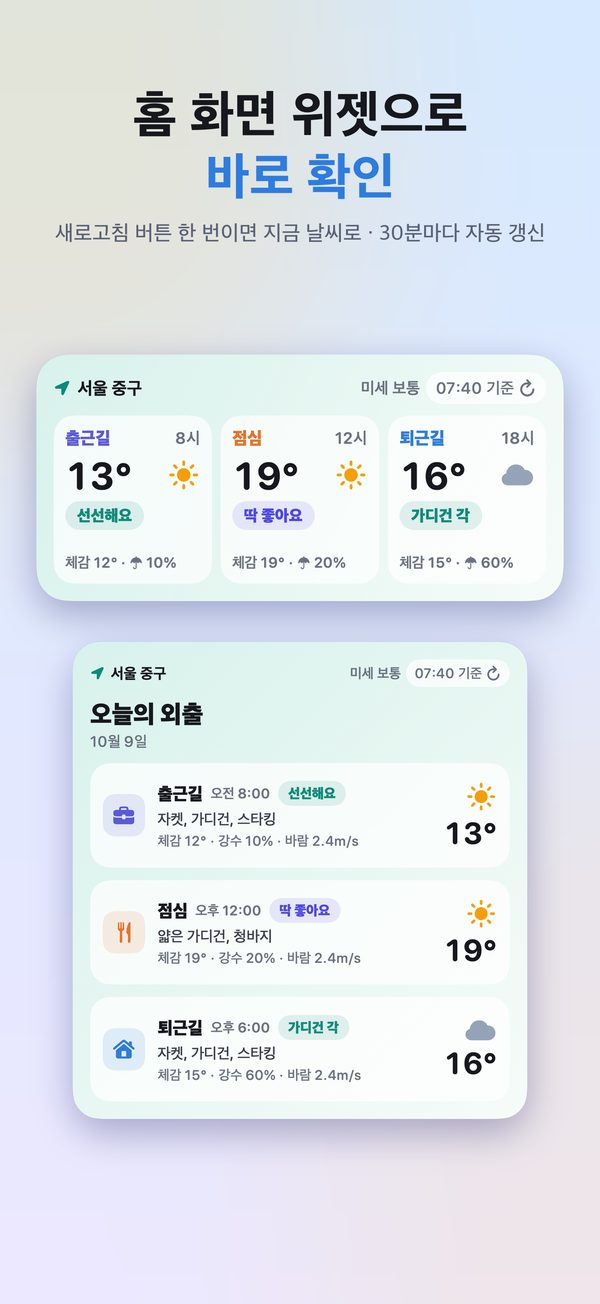
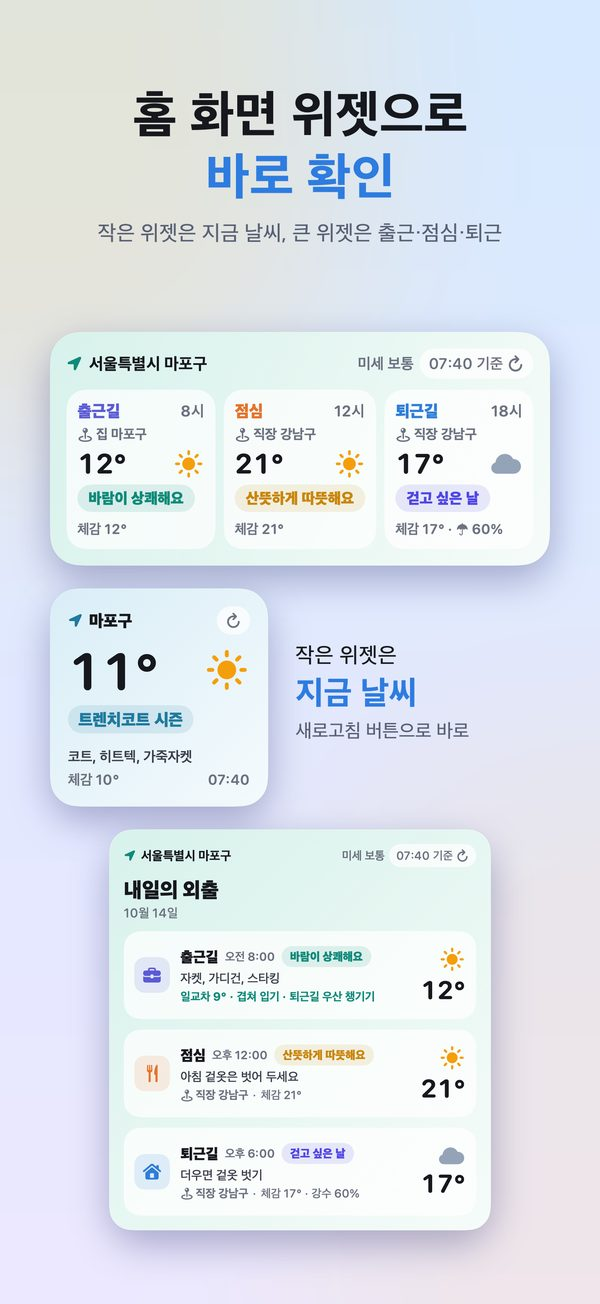
weatherfit: small widget current weather, real-time KMA FAQ, screenshot 6, review status

diff --git a/weatherfit/index.html b/weatherfit/index.html
@@ -47,7 +47,7 @@ permalink: /weatherfit/
         "출퇴근 날씨",
         "WeatherFit"
       ],
-      "description": "출근·점심·퇴근 세 시간대의 기상청 예보를 내가 느끼는 체감과 하루 옷차림으로 알려주는 아이폰 날씨 앱. 내 체감 학습, 집·직장 위치, 주말·공휴일 쉬는 날 문구, 홈 화면 위젯.",
+      "description": "출근·점심·퇴근 세 시간대의 기상청 예보를 내가 느끼는 체감과 하루 옷차림으로 알려주는 아이폰 날씨 앱. 기상청 실시간 현재 날씨, 내 체감 학습, 집·직장 위치, 주말·공휴일 쉬는 날 문구, 출근 전날 저녁 9시 알림, 홈 화면 위젯.",
       "url": "https://cumulus.team/weatherfit/",
       "sameAs": [
         "https://apps.apple.com/kr/app/id6819701703"
@@ -68,7 +68,8 @@ permalink: /weatherfit/
         "https://cumulus.team/weatherfit/img/screen-02.jpg",
         "https://cumulus.team/weatherfit/img/screen-03.jpg",
         "https://cumulus.team/weatherfit/img/screen-04.jpg",
-        "https://cumulus.team/weatherfit/img/screen-05.jpg"
+        "https://cumulus.team/weatherfit/img/screen-05.jpg",
+        "https://cumulus.team/weatherfit/img/screen-06.jpg"
       ],
       "featureList": [
         "세 번의 외출 날씨: 출근(8시)·점심(12시)·퇴근(18시)의 기온·체감·강수확률·바람·자외선. 퇴근 후엔 내일 날씨로 자동 전환.",
@@ -77,7 +78,8 @@ permalink: /weatherfit/
         "내 출퇴근 시간: 출근·점심·퇴근 시각을 30분 단위로 바꾸면 카드와 위젯이 그대로 따라와요.",
         "집·직장 위치: 출근은 집, 점심·퇴근은 직장 날씨. 주소 검색이나 현재 위치로 설정해요.",
         "주말·공휴일 쉬는 날 모드: “느긋한 아침 · 한가한 점심 · 저녁 나들이”와 쉬는 날 문구로 바뀌어요.",
-        "홈 화면 위젯: 소·중·대 위젯이 30분마다 스스로 갱신, ↻ 버튼으로 바로 새로고침.",
+        "홈 화면 위젯: 작은 위젯은 지금 날씨, 중간·큰 위젯은 출근·점심·퇴근. 30분마다 스스로 갱신하고 새로고침 버튼으로 바로.",
+        "실시간 현재 날씨: 기상청 정시 관측을 바로 반영하고, 자외선이 강하면 햇볕 안내까지. 필요 없는 정보는 숨겨서 깔끔하게.",
         "저녁 9시 출근 날씨 알림: 출근하는 날 전날 밤 9시, 내일 출근길 날씨와 하루 옷차림을 알림으로 요약해 드려요.",
         "체감 10단계 문구: “트렌치코트 시즌”, “걷고 싶은 날”, “빗소리 좋은 날”, “날씨까지 불금”처럼 날씨·요일에 어울리는 문구."
       ],
@@ -102,7 +104,7 @@ permalink: /weatherfit/
       "about": {
         "@id": "https://cumulus.team/weatherfit/#app"
       },
-      "dateModified": "2026-10-10"
+      "dateModified": "2026-10-11"
     },
     {
       "@type": "FAQPage",
@@ -169,7 +171,7 @@ permalink: /weatherfit/
           "name": "홈 화면 위젯이 있나요?",
           "acceptedAnswer": {
             "@type": "Answer",
-            "text": "소·중·대 세 가지 크기의 홈 화면 위젯이 있습니다. 위젯은 약 30분마다 스스로 기상청 예보를 받아 갱신되고, 새로고침 버튼(↻)을 누르면 바로 최신 날씨로 바뀝니다. 앱과 같은 출퇴근 시간, 집·직장 위치, 쉬는 날 문구, 하루 옷차림을 따릅니다. 위젯은 iOS 17 이상에서 쓸 수 있습니다."
+            "text": "소·중·대 세 가지 크기의 홈 화면 위젯이 있습니다. 작은 위젯은 지금 날씨와 체감·옷차림을, 중간·큰 위젯은 출근·점심·퇴근 날씨를 보여줍니다. 위젯은 약 30분마다 스스로 기상청 예보를 받아 갱신되고, 새로고침 버튼(↻)을 누르면 바로 최신 날씨로 바뀝니다. 앱과 같은 출퇴근 시간, 집·직장 위치, 쉬는 날 문구, 하루 옷차림을 따릅니다. 위젯은 iOS 17 이상에서 쓸 수 있습니다."
           }
         },
         {
@@ -178,6 +180,14 @@ permalink: /weatherfit/
           "acceptedAnswer": {
             "@type": "Answer",
             "text": "네. '저녁 9시 출근 날씨 알림'을 켜면 출근하는 날 전날 밤 9시에 내일 출근길 기온과 체감, 하루 옷차림, 점심·퇴근길 기온, 일교차·우산 안내를 한 번에 알려줍니다. 다음날이 주말·공휴일이면 보내지 않으며, 기본값은 꺼짐입니다. 알림은 기기 안에서 예약되는 로컬 알림입니다."
+          }
+        },
+        {
+          "@type": "Question",
+          "name": "지금 기온이 기상청 발표와 같은가요?",
+          "acceptedAnswer": {
+            "@type": "Answer",
+            "text": "상단 현재 날씨는 기상청 초단기실황(매시 정시 관측)을 쓰며, 정시 관측이 나오는 대로(보통 정시 5분쯤) 반영합니다. 아직 이번 시각 자료가 없으면 직전 관측을 보여주고, 앱을 켜 둔 채로 있어도 10분이 지나면 알아서 새로 받습니다. 햇빛이 없는 시간엔 자외선, 비 올 확률이 없으면 강수확률을 숨겨 화면을 단순하게 유지하고, 자외선이 강하면 날씨 설명에 햇볕 안내를 덧붙입니다."
           }
         },
         {
@@ -272,7 +282,8 @@ permalink: /weatherfit/
           <li><strong>내 출퇴근 시간</strong>출근·점심·퇴근 시각을 30분 단위로 바꾸면 카드와 위젯이 그대로 따라와요.</li>
           <li><strong>집·직장 위치</strong>출근은 집, 점심·퇴근은 직장 날씨. 주소 검색이나 현재 위치로 설정해요.</li>
           <li><strong>주말·공휴일 쉬는 날 모드</strong>“느긋한 아침 · 한가한 점심 · 저녁 나들이”와 쉬는 날 문구로 바뀌어요.</li>
-          <li><strong>홈 화면 위젯</strong>소·중·대 위젯이 30분마다 스스로 갱신, ↻ 버튼으로 바로 새로고침.</li>
+          <li><strong>홈 화면 위젯</strong>작은 위젯은 지금 날씨, 중간·큰 위젯은 출근·점심·퇴근. 30분마다 스스로 갱신하고 새로고침 버튼으로 바로.</li>
+          <li><strong>실시간 현재 날씨</strong>기상청 정시 관측을 바로 반영하고, 자외선이 강하면 햇볕 안내까지. 필요 없는 정보는 숨겨서 깔끔하게.</li>
           <li><strong>저녁 9시 출근 날씨 알림</strong>출근하는 날 전날 밤 9시, 내일 출근길 날씨와 하루 옷차림을 알림으로 요약해 드려요.</li>
           <li><strong>체감 10단계 문구</strong>“트렌치코트 시즌”, “걷고 싶은 날”, “빗소리 좋은 날”, “날씨까지 불금”처럼 날씨·요일에 어울리는 문구.</li>
         </ul>
@@ -316,7 +327,8 @@ permalink: /weatherfit/
           <li><figure><img src="/weatherfit/img/screen-02.jpg" width="600" height="1304" loading="lazy" alt="&#x27;지금 내 체감은?&#x27;에서 &#x27;선선&#x27;을 골라 기록한 화면, 내 기준 체감 17°"><figcaption>답할수록 나에게 맞춰지는 체감</figcaption></figure></li>
           <li><figure><img src="/weatherfit/img/screen-03.jpg" width="600" height="1304" loading="lazy" alt="내일의 외출: 출근 오전 8시 15°, 점심 12시 23°, 퇴근 오후 6시 23° 카드와 체감 문구·옷차림"><figcaption>세 번의 외출을 한눈에</figcaption></figure></li>
           <li><figure><img src="/weatherfit/img/screen-04.jpg" width="600" height="1304" loading="lazy" alt="내 출퇴근 시간 설정: 출근 오전 8:00, 점심 오후 12:00, 퇴근 오후 6:00을 30분 단위로 조절"><figcaption>내 출퇴근 시간에 맞춰서</figcaption></figure></li>
-          <li><figure><img src="/weatherfit/img/screen-05.jpg" width="600" height="1304" loading="lazy" alt="홈 화면 위젯 중형·대형: 출근길 13°, 점심 19°, 퇴근길 16°와 새로고침 버튼"><figcaption>홈 화면 위젯</figcaption></figure></li>
+          <li><figure><img src="/weatherfit/img/screen-05.jpg" width="600" height="1304" loading="lazy" alt="홈 화면 위젯: 중형은 출근길 12°·점심 21°·퇴근길 17°, 소형은 지금 11° 트렌치코트 시즌, 대형은 하루 옷차림과 일교차 안내"><figcaption>홈 화면 위젯</figcaption></figure></li>
+          <li><figure><img src="/weatherfit/img/screen-06.jpg" width="600" height="1304" loading="lazy" alt="일요일 화면: &#x27;오늘은 일요일 · 출근 없는 날&#x27; 배지와 쉬는 날 문구, 저녁 9시 출근 날씨 알림 켜짐과 다음 알림 시각"><figcaption>쉬는 날 버전과 저녁 9시 알림</figcaption></figure></li>
         </ul>
       </div>
     </section>
@@ -339,9 +351,11 @@ permalink: /weatherfit/
         <details><summary>주말이나 공휴일에는 어떻게 보이나요?</summary>
           <p>토요일·일요일과 공휴일·대체공휴일에는 출근·퇴근 대신 &#x27;느긋한 아침 · 한가한 점심 · 저녁 나들이&#x27;로 바뀌고, 체감 문구도 &#x27;피크닉하기 좋은 날&#x27;, &#x27;쉬는 날 날씨 최고&#x27;처럼 쉬는 날 톤으로 나옵니다. 공휴일 정보는 한국천문연구원 특일 정보(공공데이터포털) 기준으로 2026~2027년을 담고 있으며, 임시공휴일은 앱 업데이트 없이 반영할 수 있습니다.</p></details>
         <details><summary>홈 화면 위젯이 있나요?</summary>
-          <p>소·중·대 세 가지 크기의 홈 화면 위젯이 있습니다. 위젯은 약 30분마다 스스로 기상청 예보를 받아 갱신되고, 새로고침 버튼(↻)을 누르면 바로 최신 날씨로 바뀝니다. 앱과 같은 출퇴근 시간, 집·직장 위치, 쉬는 날 문구, 하루 옷차림을 따릅니다. 위젯은 iOS 17 이상에서 쓸 수 있습니다.</p></details>
+          <p>소·중·대 세 가지 크기의 홈 화면 위젯이 있습니다. 작은 위젯은 지금 날씨와 체감·옷차림을, 중간·큰 위젯은 출근·점심·퇴근 날씨를 보여줍니다. 위젯은 약 30분마다 스스로 기상청 예보를 받아 갱신되고, 새로고침 버튼(↻)을 누르면 바로 최신 날씨로 바뀝니다. 앱과 같은 출퇴근 시간, 집·직장 위치, 쉬는 날 문구, 하루 옷차림을 따릅니다. 위젯은 iOS 17 이상에서 쓸 수 있습니다.</p></details>
         <details><summary>출근 전날 밤에 내일 날씨를 알려주나요?</summary>
           <p>네. &#x27;저녁 9시 출근 날씨 알림&#x27;을 켜면 출근하는 날 전날 밤 9시에 내일 출근길 기온과 체감, 하루 옷차림, 점심·퇴근길 기온, 일교차·우산 안내를 한 번에 알려줍니다. 다음날이 주말·공휴일이면 보내지 않으며, 기본값은 꺼짐입니다. 알림은 기기 안에서 예약되는 로컬 알림입니다.</p></details>
+        <details><summary>지금 기온이 기상청 발표와 같은가요?</summary>
+          <p>상단 현재 날씨는 기상청 초단기실황(매시 정시 관측)을 쓰며, 정시 관측이 나오는 대로(보통 정시 5분쯤) 반영합니다. 아직 이번 시각 자료가 없으면 직전 관측을 보여주고, 앱을 켜 둔 채로 있어도 10분이 지나면 알아서 새로 받습니다. 햇빛이 없는 시간엔 자외선, 비 올 확률이 없으면 강수확률을 숨겨 화면을 단순하게 유지하고, 자외선이 강하면 날씨 설명에 햇볕 안내를 덧붙입니다.</p></details>
         <details><summary>무료인가요? 개인정보는 어떻게 다루나요?</summary>
           <p>무료이며 광고와 회원가입이 없습니다. 위치는 날씨를 조회하는 데에만 쓰이고, 체감 기록과 집·직장 위치는 기기에만 저장됩니다. 앱 개선을 위해 익명 오류 정보와 사용 통계만 수집하며 광고 식별자(IDFA)는 쓰지 않습니다. 자세한 내용은 <a href="/weatherfit/privacy/">개인정보 처리방침</a>을 보세요.</p></details>
         <details><summary>해외나 안드로이드에서도 쓸 수 있나요?</summary>
@@ -362,7 +376,7 @@ permalink: /weatherfit/
     <div class="wrap">
       <p>출퇴근날씨 · 만든 곳 <a href="https://cumulus.team/">Team Cumulus</a> · 문의 <a href="mailto:theteamcumulus@gmail.com">theteamcumulus@gmail.com</a></p>
       <p>날씨 정보 출처: 기상청 단기예보·초단기실황 · 자외선 Open-Meteo · 미세먼지 OpenWeather. 예보와 체감은 참고용입니다.</p>
-      <p><a href="/weatherfit/support/">지원</a> · <a href="/weatherfit/privacy/">개인정보 처리방침</a> · 최종 수정 <time datetime="2026-10-10">2026년 10월 10일</time> (앱 1.0.0 기준)</p>
+      <p><a href="/weatherfit/support/">지원</a> · <a href="/weatherfit/privacy/">개인정보 처리방침</a> · 최종 수정 <time datetime="2026-10-11">2026년 10월 11일</time> (앱 1.0.0 기준)</p>
     </div>
   </footer>
 </body>

diff --git a/weatherfit/build_landing.py b/weatherfit/build_landing.py
@@ -12,8 +12,8 @@ from pathlib import Path
 OUT = Path(__file__).resolve().parent / 'index.html'
 APP = 'https://apps.apple.com/kr/app/id6819701703'
 BASE = 'https://cumulus.team/weatherfit/'
-TODAY = '2026-10-10'
-TODAY_KO = '2026년 10월 10일'
+TODAY = '2026-10-11'
+TODAY_KO = '2026년 10월 11일'
 VERSION = '1.0.0'
 
 FAQS = [
@@ -32,9 +32,11 @@ FAQS = [
     ("주말이나 공휴일에는 어떻게 보이나요?",
      "토요일·일요일과 공휴일·대체공휴일에는 출근·퇴근 대신 '느긋한 아침 · 한가한 점심 · 저녁 나들이'로 바뀌고, 체감 문구도 '피크닉하기 좋은 날', '쉬는 날 날씨 최고'처럼 쉬는 날 톤으로 나옵니다. 공휴일 정보는 한국천문연구원 특일 정보(공공데이터포털) 기준으로 2026~2027년을 담고 있으며, 임시공휴일은 앱 업데이트 없이 반영할 수 있습니다."),
     ("홈 화면 위젯이 있나요?",
-     "소·중·대 세 가지 크기의 홈 화면 위젯이 있습니다. 위젯은 약 30분마다 스스로 기상청 예보를 받아 갱신되고, 새로고침 버튼(↻)을 누르면 바로 최신 날씨로 바뀝니다. 앱과 같은 출퇴근 시간, 집·직장 위치, 쉬는 날 문구, 하루 옷차림을 따릅니다. 위젯은 iOS 17 이상에서 쓸 수 있습니다."),
+     "소·중·대 세 가지 크기의 홈 화면 위젯이 있습니다. 작은 위젯은 지금 날씨와 체감·옷차림을, 중간·큰 위젯은 출근·점심·퇴근 날씨를 보여줍니다. 위젯은 약 30분마다 스스로 기상청 예보를 받아 갱신되고, 새로고침 버튼(↻)을 누르면 바로 최신 날씨로 바뀝니다. 앱과 같은 출퇴근 시간, 집·직장 위치, 쉬는 날 문구, 하루 옷차림을 따릅니다. 위젯은 iOS 17 이상에서 쓸 수 있습니다."),
     ("출근 전날 밤에 내일 날씨를 알려주나요?",
      "네. '저녁 9시 출근 날씨 알림'을 켜면 출근하는 날 전날 밤 9시에 내일 출근길 기온과 체감, 하루 옷차림, 점심·퇴근길 기온, 일교차·우산 안내를 한 번에 알려줍니다. 다음날이 주말·공휴일이면 보내지 않으며, 기본값은 꺼짐입니다. 알림은 기기 안에서 예약되는 로컬 알림입니다."),
+    ("지금 기온이 기상청 발표와 같은가요?",
+     "상단 현재 날씨는 기상청 초단기실황(매시 정시 관측)을 쓰며, 정시 관측이 나오는 대로(보통 정시 5분쯤) 반영합니다. 아직 이번 시각 자료가 없으면 직전 관측을 보여주고, 앱을 켜 둔 채로 있어도 10분이 지나면 알아서 새로 받습니다. 햇빛이 없는 시간엔 자외선, 비 올 확률이 없으면 강수확률을 숨겨 화면을 단순하게 유지하고, 자외선이 강하면 날씨 설명에 햇볕 안내를 덧붙입니다."),
     ("무료인가요? 개인정보는 어떻게 다루나요?",
      "무료이며 광고와 회원가입이 없습니다. 위치는 날씨를 조회하는 데에만 쓰이고, 체감 기록과 집·직장 위치는 기기에만 저장됩니다. 앱 개선을 위해 익명 오류 정보와 사용 통계만 수집하며 광고 식별자(IDFA)는 쓰지 않습니다."),
     ("해외나 안드로이드에서도 쓸 수 있나요?",
@@ -48,7 +50,8 @@ FEATURES = [
     ("내 출퇴근 시간", "출근·점심·퇴근 시각을 30분 단위로 바꾸면 카드와 위젯이 그대로 따라와요."),
     ("집·직장 위치", "출근은 집, 점심·퇴근은 직장 날씨. 주소 검색이나 현재 위치로 설정해요."),
     ("주말·공휴일 쉬는 날 모드", "“느긋한 아침 · 한가한 점심 · 저녁 나들이”와 쉬는 날 문구로 바뀌어요."),
-    ("홈 화면 위젯", "소·중·대 위젯이 30분마다 스스로 갱신, ↻ 버튼으로 바로 새로고침."),
+    ("홈 화면 위젯", "작은 위젯은 지금 날씨, 중간·큰 위젯은 출근·점심·퇴근. 30분마다 스스로 갱신하고 새로고침 버튼으로 바로."),
+    ("실시간 현재 날씨", "기상청 정시 관측을 바로 반영하고, 자외선이 강하면 햇볕 안내까지. 필요 없는 정보는 숨겨서 깔끔하게."),
     ("저녁 9시 출근 날씨 알림", "출근하는 날 전날 밤 9시, 내일 출근길 날씨와 하루 옷차림을 알림으로 요약해 드려요."),
     ("체감 10단계 문구", "“트렌치코트 시즌”, “걷고 싶은 날”, “빗소리 좋은 날”, “날씨까지 불금”처럼 날씨·요일에 어울리는 문구."),
 ]
@@ -58,7 +61,8 @@ SHOTS = [
     ("screen-02.jpg", "'지금 내 체감은?'에서 '선선'을 골라 기록한 화면, 내 기준 체감 17°", "답할수록 나에게 맞춰지는 체감"),
     ("screen-03.jpg", "내일의 외출: 출근 오전 8시 15°, 점심 12시 23°, 퇴근 오후 6시 23° 카드와 체감 문구·옷차림", "세 번의 외출을 한눈에"),
     ("screen-04.jpg", "내 출퇴근 시간 설정: 출근 오전 8:00, 점심 오후 12:00, 퇴근 오후 6:00을 30분 단위로 조절", "내 출퇴근 시간에 맞춰서"),
-    ("screen-05.jpg", "홈 화면 위젯 중형·대형: 출근길 13°, 점심 19°, 퇴근길 16°와 새로고침 버튼", "홈 화면 위젯"),
+    ("screen-05.jpg", "홈 화면 위젯: 중형은 출근길 12°·점심 21°·퇴근길 17°, 소형은 지금 11° 트렌치코트 시즌, 대형은 하루 옷차림과 일교차 안내", "홈 화면 위젯"),
+    ("screen-06.jpg", "일요일 화면: '오늘은 일요일 · 출근 없는 날' 배지와 쉬는 날 문구, 저녁 9시 출근 날씨 알림 켜짐과 다음 알림 시각", "쉬는 날 버전과 저녁 9시 알림"),
 ]
 
 PRIVACY_LINK = ' 자세한 내용은 <a href="/weatherfit/privacy/">개인정보 처리방침</a>을 보세요.'
@@ -68,7 +72,7 @@ ld = {"@context": "https://schema.org", "@graph": [
      "url": "https://cumulus.team/", "email": "theteamcumulus@gmail.com"},
     {"@type": "MobileApplication", "@id": BASE + "#app", "name": "출퇴근날씨",
      "alternateName": ["출퇴근 날씨", "WeatherFit"],
-     "description": "출근·점심·퇴근 세 시간대의 기상청 예보를 내가 느끼는 체감과 하루 옷차림으로 알려주는 아이폰 날씨 앱. 내 체감 학습, 집·직장 위치, 주말·공휴일 쉬는 날 문구, 홈 화면 위젯.",
+     "description": "출근·점심·퇴근 세 시간대의 기상청 예보를 내가 느끼는 체감과 하루 옷차림으로 알려주는 아이폰 날씨 앱. 기상청 실시간 현재 날씨, 내 체감 학습, 집·직장 위치, 주말·공휴일 쉬는 날 문구, 출근 전날 저녁 9시 알림, 홈 화면 위젯.",
      "url": BASE, "sameAs": [APP], "installUrl": APP, "downloadUrl": APP,
      "operatingSystem": "iOS 15.1 이상 (위젯은 iOS 17 이상)", "availableOnDevice": "iPhone",
      "applicationCategory": "WeatherApplication", "applicationSubCategory": "출퇴근 날씨",

diff --git a/weatherfit/support.md b/weatherfit/support.md
@@ -27,6 +27,9 @@ permalink: /weatherfit/support/
 **주말·공휴일엔 문구가 달라요.**
 출근이 없는 날엔 "느긋한 아침 · 한가한 점심 · 저녁 나들이"와 쉬는 날 문구로 바뀌어요.
 
+**작은 위젯에 출근 시간 날씨를 띄우고 싶어요.**
+작은 위젯은 기본으로 지금 날씨를 보여줘요. 위젯을 길게 눌러 편집하면 출근길·점심·퇴근길 중 하나로 바꿀 수 있어요.
+
 **위젯이 갱신되지 않아요.**
 위젯의 ↻ 버튼을 누르거나 앱을 한 번 열면 바로 갱신돼요. 위젯은 약 30분마다 스스로 날씨를 받아오지만, iOS가 배터리 상황에 따라 갱신을 늦출 수 있습니다.
 
